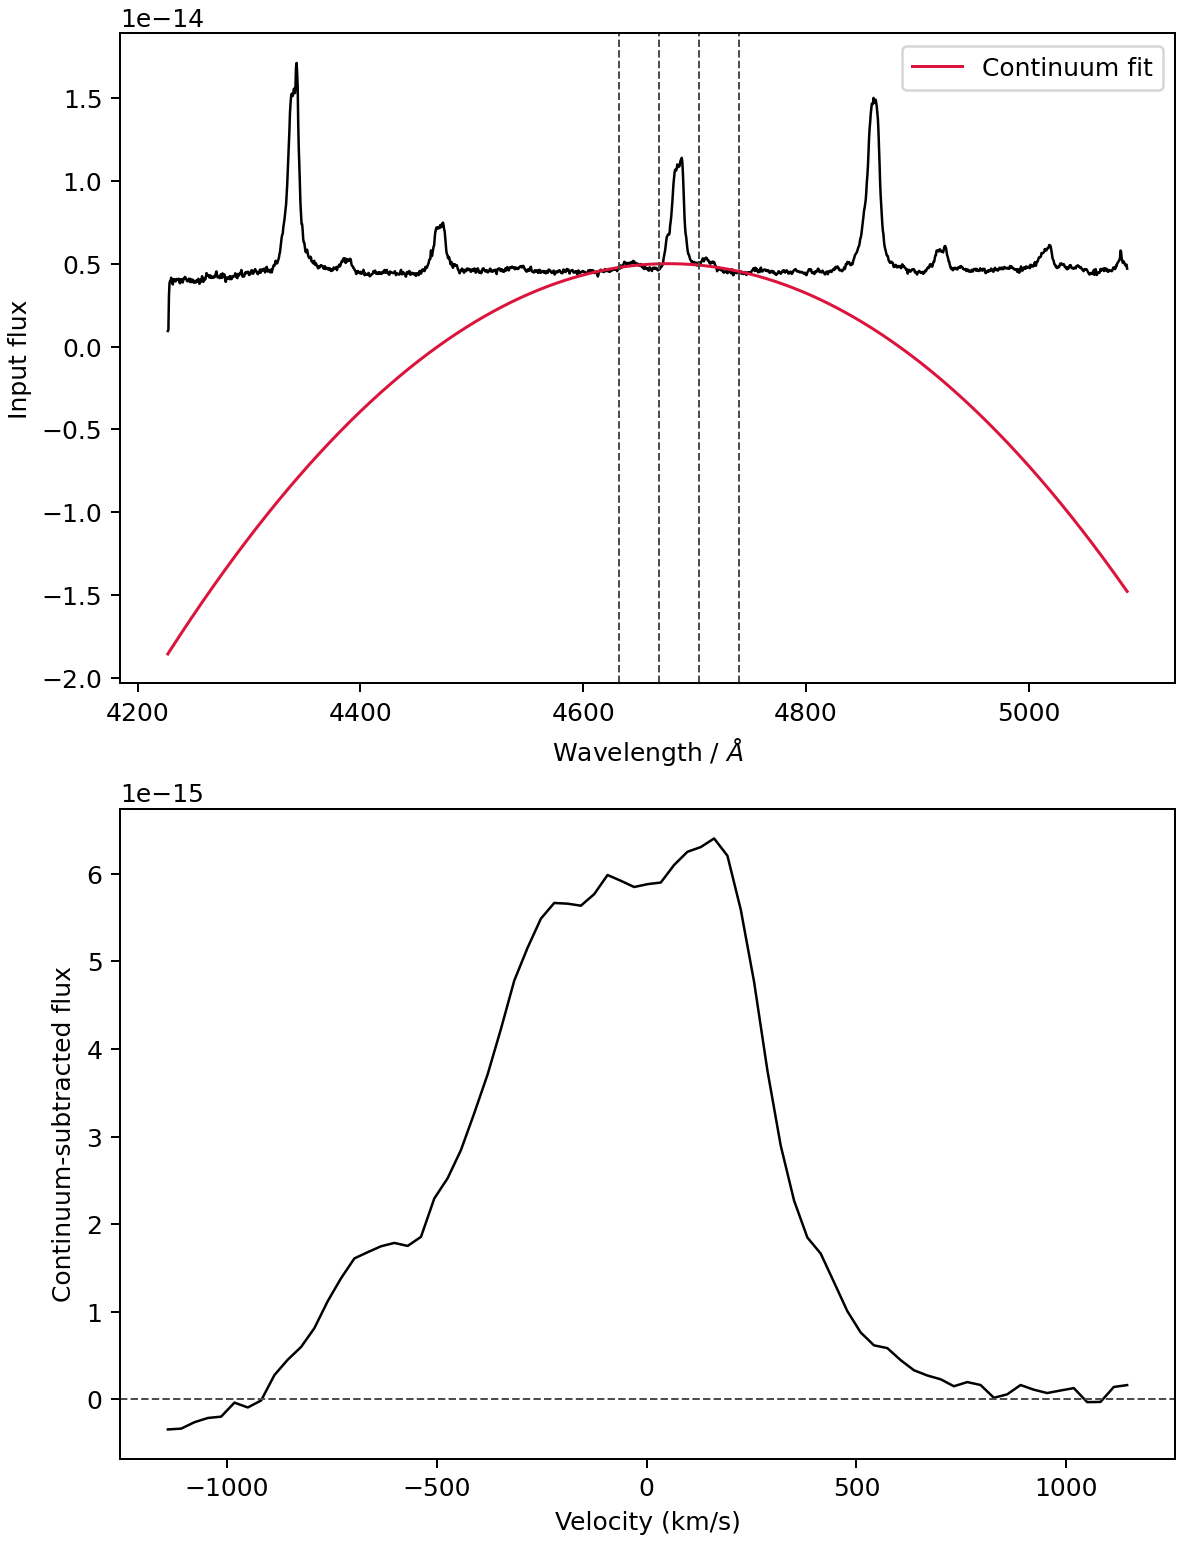
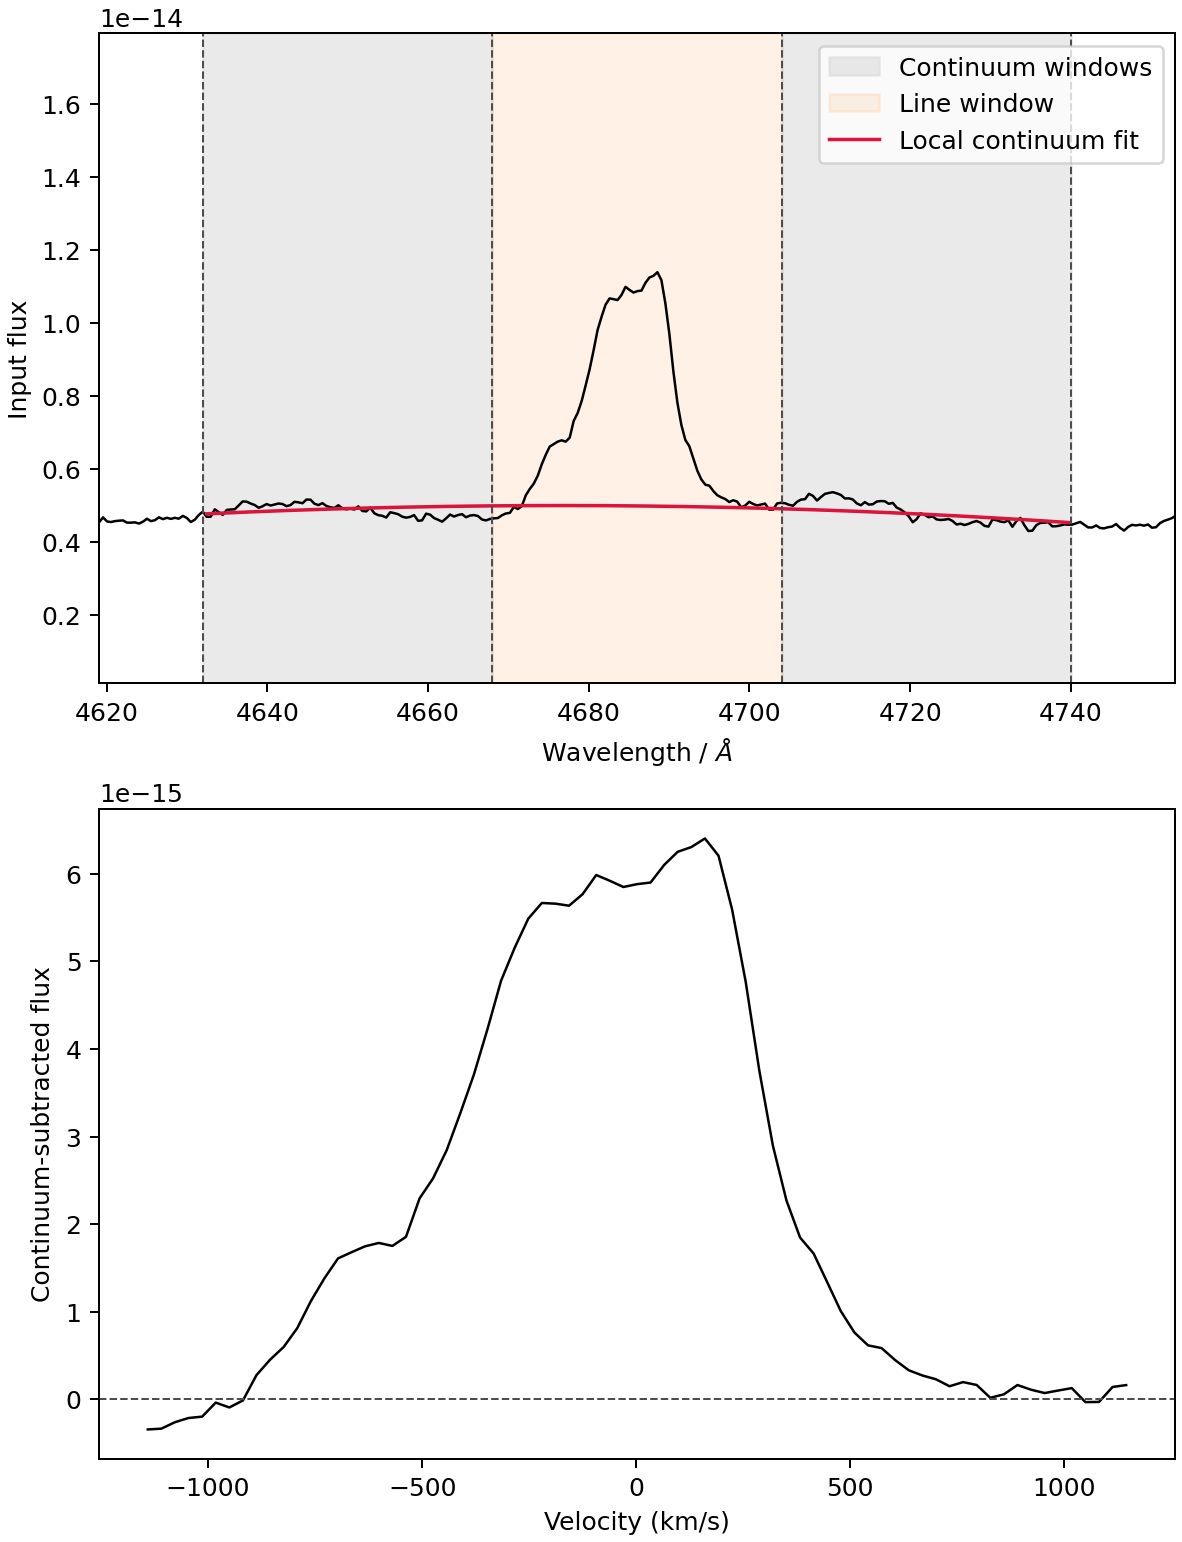
Fix local continuum diagnostic plot

diff --git a/pydoppler3d/visualize.py b/pydoppler3d/visualize.py
@@ -72,13 +72,43 @@ def plot_average_spectrum(
     """Save a PyDoppler-style average spectrum and line-window diagnostic."""
 
     plt = _pyplot()
+    wavelength = np.asarray(wavelength, dtype=float)
+    average_flux = np.asarray(average_flux, dtype=float)
+    continuum = np.asarray(continuum, dtype=float)
     output = Path(output)
     fig, axes = plt.subplots(2, 1, figsize=(6.57, 8.57), constrained_layout=True)
     axes[0].plot(wavelength, average_flux, color="black", lw=1.0)
-    axes[0].plot(wavelength, continuum, color="crimson", lw=1.2, label="Continuum fit")
     if continuum_band is not None:
-        for value in continuum_band:
+        band = tuple(float(value) for value in continuum_band)
+        local = (wavelength >= band[0]) & (wavelength <= band[3])
+        axes[0].axvspan(
+            band[0],
+            band[1],
+            color="0.85",
+            alpha=0.55,
+            label="Continuum windows",
+        )
+        axes[0].axvspan(band[2], band[3], color="0.85", alpha=0.55)
+        axes[0].axvspan(
+            band[1],
+            band[2],
+            color="tab:orange",
+            alpha=0.10,
+            label="Line window",
+        )
+        axes[0].plot(
+            wavelength[local],
+            continuum[local],
+            color="crimson",
+            lw=1.4,
+            label="Local continuum fit",
+        )
+        for value in band:
             axes[0].axvline(value, color="0.3", ls="--", lw=0.8)
+        margin = 0.12 * (band[3] - band[0])
+        axes[0].set_xlim(band[0] - margin, band[3] + margin)
+    else:
+        axes[0].plot(wavelength, continuum, color="crimson", lw=1.2, label="Continuum fit")
     axes[0].set_xlabel(r"Wavelength / $\AA$")
     axes[0].set_ylabel("Input flux")
     axes[0].legend(loc="best")

diff --git a/README.md b/README.md
@@ -243,6 +243,10 @@
   plot_trails(prepared.spectra, "output_images/Trail.png", cycles=2)
   ```
 
+  The continuum diagnostic is intentionally local: the fitted continuum is only
+  displayed across the sidebands and line window used for the He II 4686
+  extraction, not extrapolated across the full optical spectrum.
+
   <p align="middle">
      <img src="pydoppler3d/test_data/output_images/Average_Spec.png" width="350" height="450" />
      <img src="pydoppler3d/test_data/output_images/Trail.png" width="350" height="450" />
